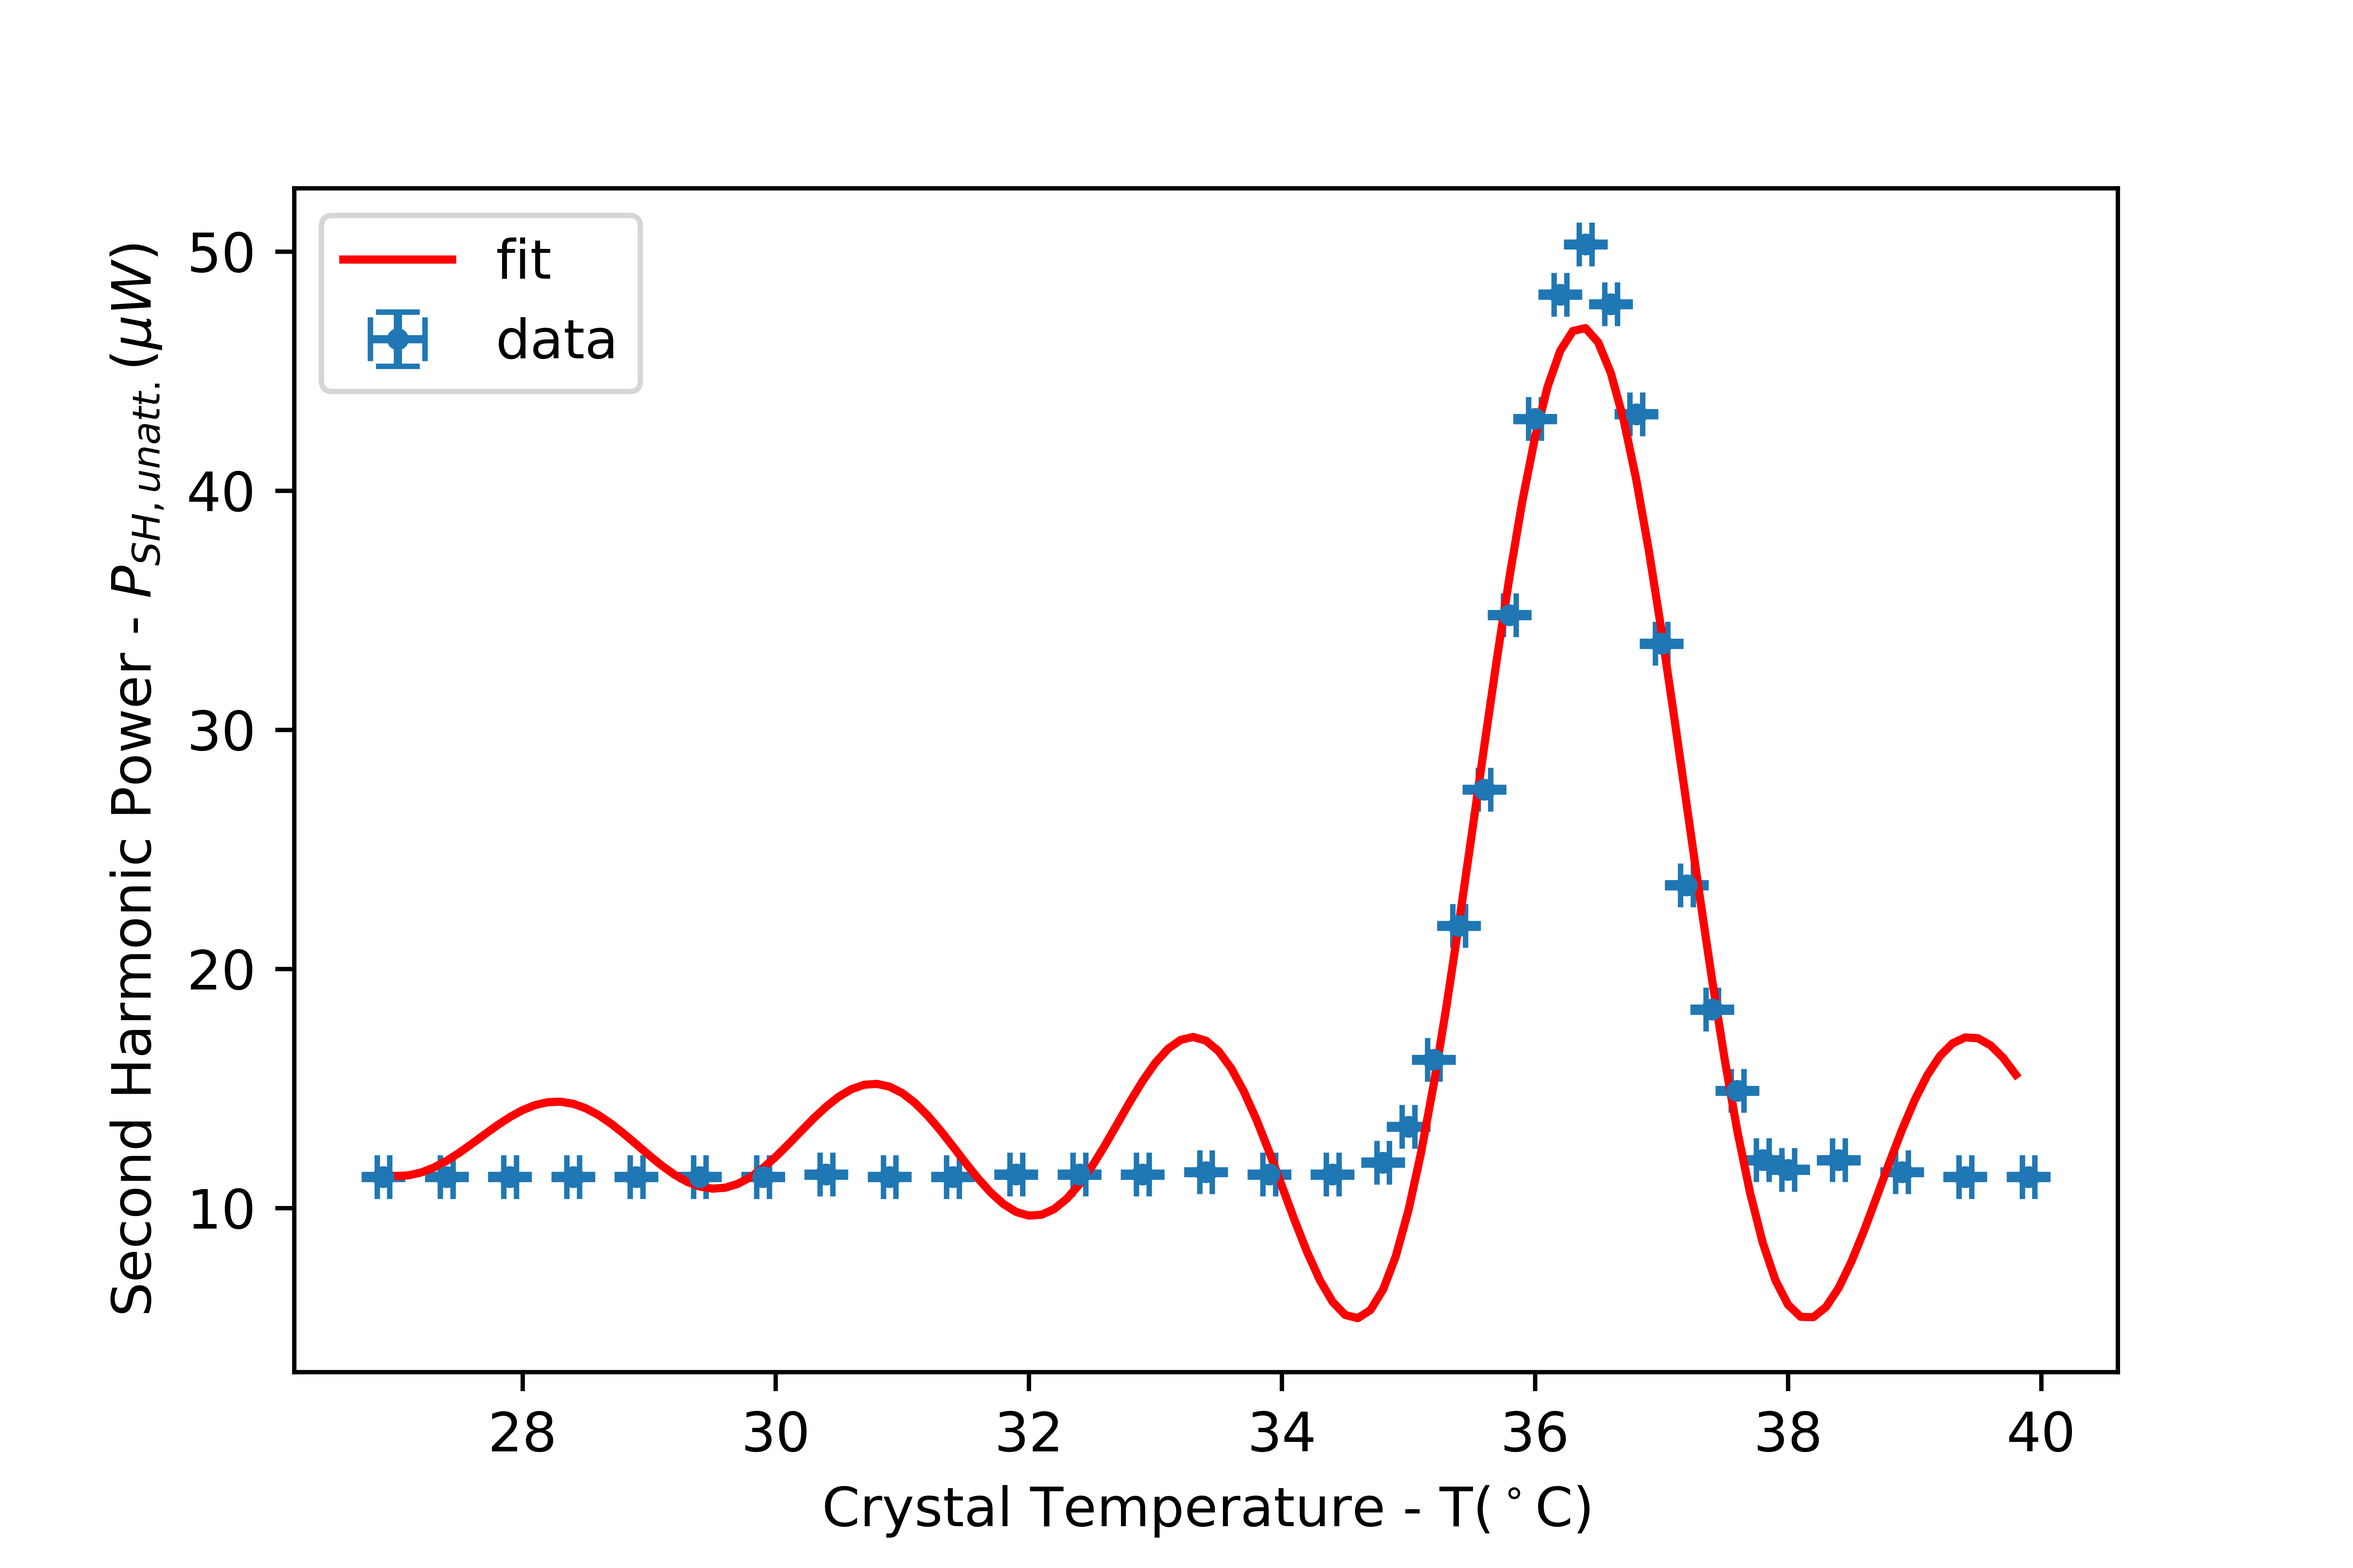
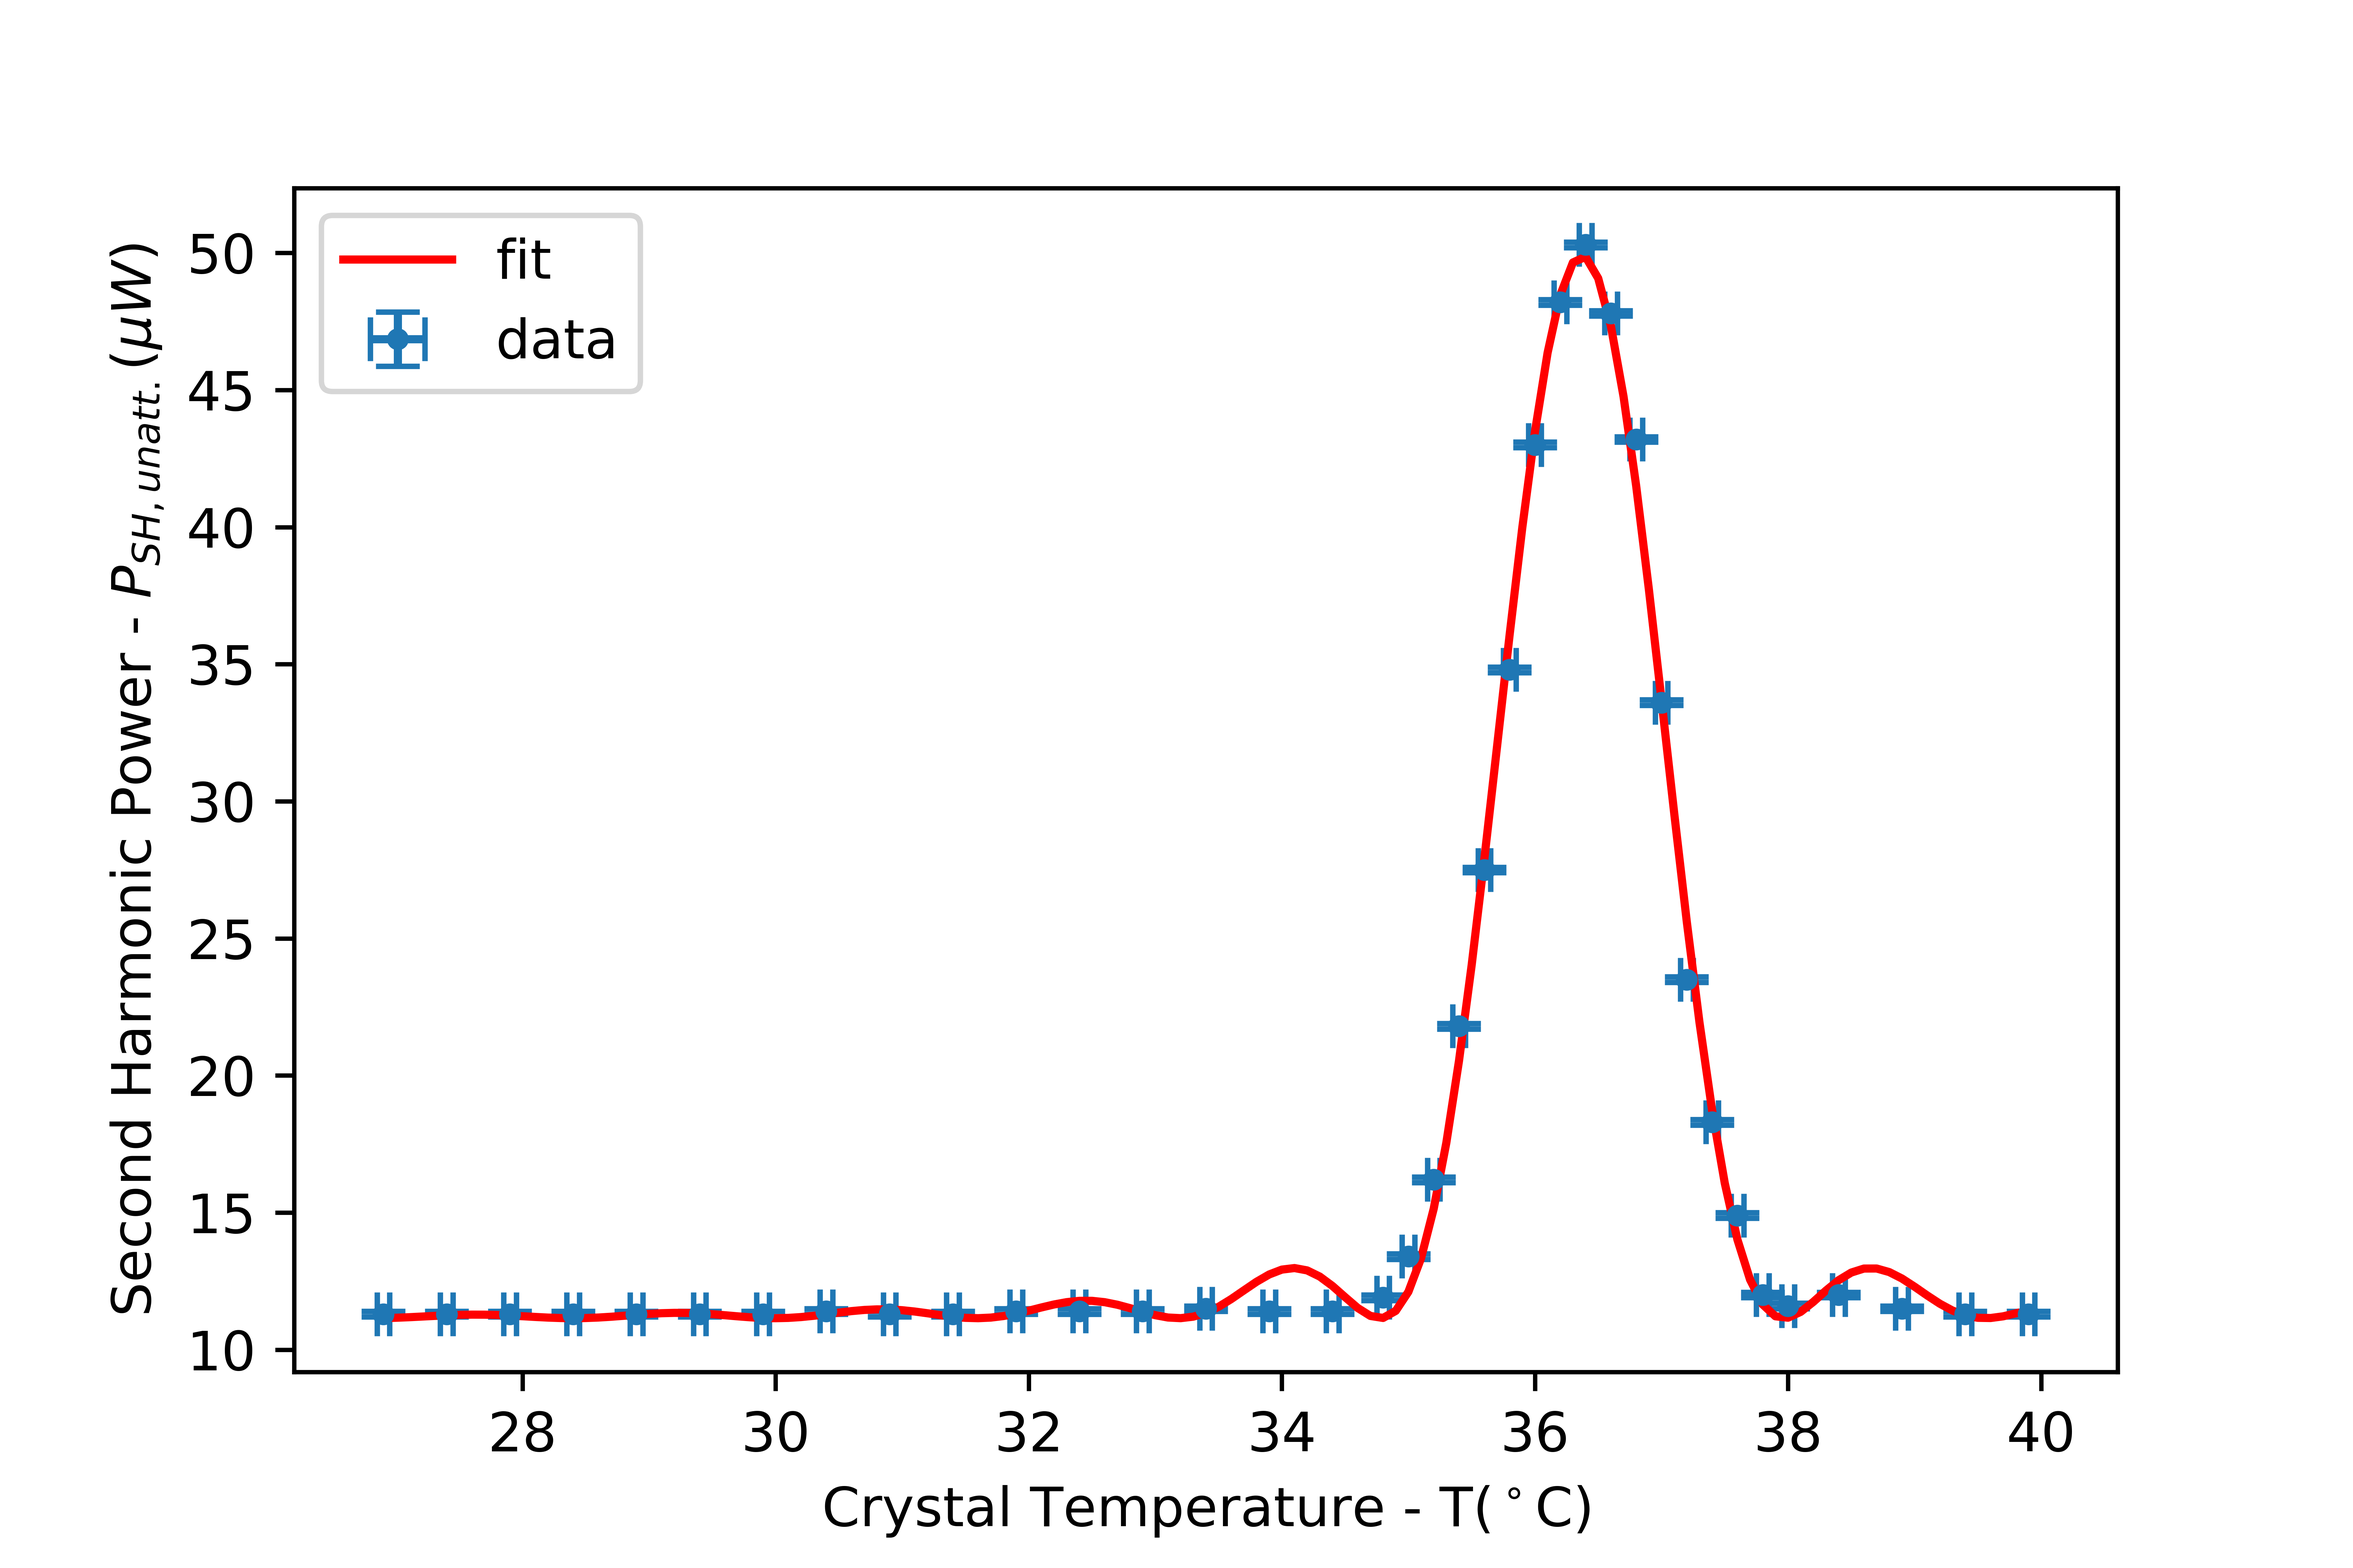
code update

diff --git a/code/A245_2.py b/code/A245_2.py
@@ -9,7 +9,7 @@ import matplotlib.pyplot as plt
 from scipy.optimize import curve_fit
 
 def func(x, a, h, k, b):
-    return(a*np.sinc(b*(x - h)) + k)
+    return(a*np.sinc(b*(x - h))**2 + k)
 
 def redchi2(f, x, y, y_err, *args):
     sum = 0
@@ -39,7 +39,7 @@ plt.plot(x_model, func(x_model, *popt), color = 'red', label = 'fit')
 plt.xlabel('Crystal Temperature - T($^\\circ$C)')
 plt.ylabel('Second Harmonic Power - $P_{SH, unatt.}$($\\mu W$)')
 plt.legend(loc = 'upper left')
-plt.savefig('shpowvstemp.png', dpi = 1200)
+#plt.savefig('shpowvstemp.png', dpi = 1200)
 plt.show()
 
 print(redchi2(func, x_data, y_data, x_data_err, *popt))
